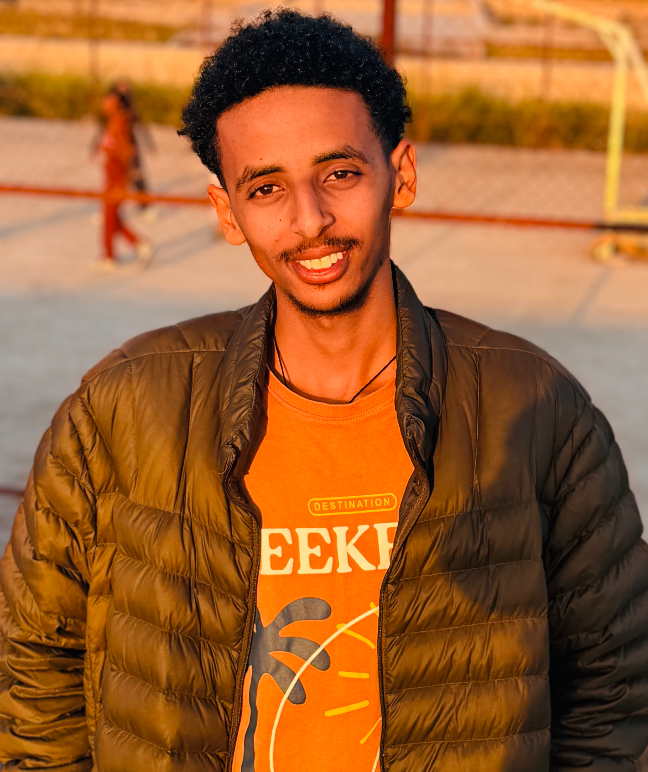
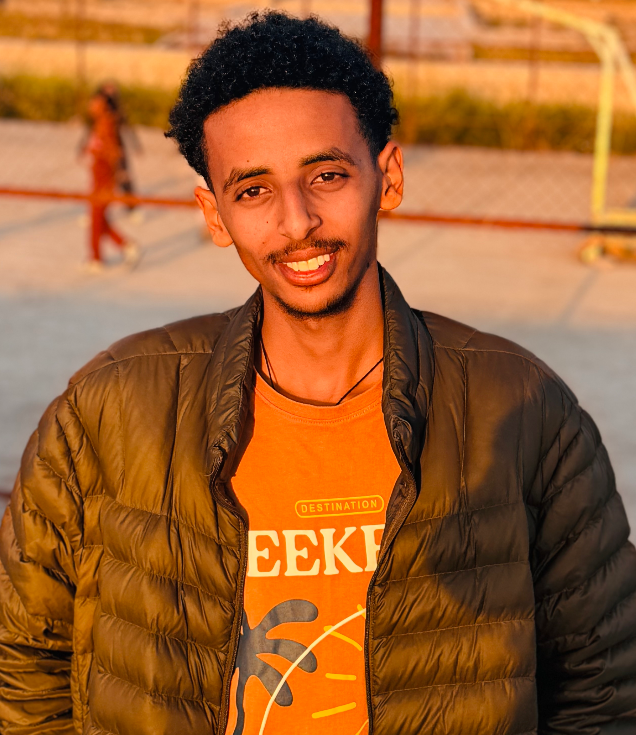
some importsat fix

diff --git a/src/index.css b/src/index.css
@@ -632,6 +632,72 @@ body {
   box-shadow: var(--shadow-lg);
 }
 
+.profile-card {
+  background: var(--bg-elevated);
+  border: 1px solid var(--border-glass);
+  border-radius: var(--radius-xl);
+  overflow: hidden;
+  box-shadow: var(--shadow-lg);
+}
+
+.profile-card-body {
+  padding: 2rem 1.75rem 2.25rem;
+  text-align: center;
+}
+
+.profile-photo-wrap {
+  width: 148px;
+  height: 148px;
+  margin: 0 auto 1.25rem;
+  border-radius: 50%;
+  padding: 4px;
+  background: linear-gradient(135deg, var(--accent), var(--accent-secondary));
+  box-shadow: 0 8px 28px rgba(59, 130, 246, 0.25);
+}
+
+.profile-photo {
+  width: 100%;
+  height: 100%;
+  border-radius: 50%;
+  object-fit: cover;
+  object-position: center top;
+  border: 3px solid var(--bg-elevated);
+  display: block;
+}
+
+.profile-card-name {
+  font-family: var(--font-heading);
+  font-size: 1.35rem;
+  font-weight: 800;
+  color: var(--text-main);
+  margin-bottom: 0.4rem;
+  line-height: 1.3;
+}
+
+.profile-card-role {
+  color: var(--text-muted);
+  font-size: 0.95rem;
+  margin-bottom: 1.1rem;
+}
+
+.profile-card-stack {
+  display: flex;
+  flex-wrap: wrap;
+  justify-content: center;
+  gap: 0.45rem;
+}
+
+.profile-card-stack span {
+  background: var(--accent-muted);
+  border: 1px solid var(--accent-border);
+  color: var(--accent-secondary);
+  padding: 0.25rem 0.65rem;
+  border-radius: 50px;
+  font-size: 0.78rem;
+  font-family: var(--font-mono);
+  font-weight: 500;
+}
+
 .code-window-bar {
   background: rgba(0, 0, 0, 0.25);
   padding: 0.7rem 1rem;
@@ -1094,8 +1160,8 @@ body {
     gap: 2.5rem;
   }
 
-  .code-window {
-    max-width: 480px;
+  .profile-card {
+    max-width: 360px;
     margin: 0 auto;
   }
 

diff --git a/src/components/Hero.jsx b/src/components/Hero.jsx
@@ -1,5 +1,8 @@
 import React, { useEffect, useRef, useState } from 'react';
-import { Github, Linkedin, ArrowRight } from './Icons';
+import { Github, Linkedin, ArrowRight, Download } from './Icons';
+
+const RESUME_URL = '/Fitsum_Mulugeta_CV.pdf';
+const RESUME_FILENAME = 'Fitsum_Mulugeta_CV.pdf';
 
 const Hero = () => {
   const canvasRef = useRef(null);
@@ -119,6 +122,9 @@ const Hero = () => {
             <a href="#projects" className="btn-primary">
               View Work <ArrowRight size={17} />
             </a>
+            <a href={RESUME_URL} download={RESUME_FILENAME} className="btn-secondary">
+              Get Resume <Download size={17} />
+            </a>
             <a href="#contact" className="btn-secondary">Contact Me</a>
           </div>
 
@@ -132,24 +138,31 @@ const Hero = () => {
           </div>
         </div>
 
-        <div className="code-window">
+        <div className="profile-card">
           <div className="code-window-bar">
             <span className="code-dot" style={{ background: '#ff5f56' }} />
             <span className="code-dot" style={{ background: '#ffbd2e' }} />
             <span className="code-dot" style={{ background: '#27c93f' }} />
             <span style={{ marginLeft: 'auto', color: 'var(--text-sub)', fontFamily: 'var(--font-mono)', fontSize: '0.75rem' }}>profile.jsx</span>
           </div>
-          <div className="code-window-body">
-            <div><span style={{ color: '#c084fc' }}>import</span> React <span style={{ color: '#c084fc' }}>from</span> <span style={{ color: '#86efac' }}>'react'</span>;</div>
-            <br />
-            <div><span style={{ color: '#c084fc' }}>const</span> <span style={{ color: '#7dd3fc' }}>Developer</span> = () =&gt; (</div>
-            <div style={{ paddingLeft: '1.2rem' }}>&lt;<span style={{ color: '#c084fc' }}>Profile</span></div>
-            <div style={{ paddingLeft: '2.4rem' }}><span style={{ color: '#fbbf24' }}>name</span>=<span style={{ color: '#86efac' }}>"Fitsum"</span></div>
-            <div style={{ paddingLeft: '2.4rem' }}><span style={{ color: '#fbbf24' }}>role</span>=<span style={{ color: '#86efac' }}>"Full-Stack Developer"</span></div>
-            <div style={{ paddingLeft: '2.4rem' }}><span style={{ color: '#fbbf24' }}>company</span>=<span style={{ color: '#86efac' }}>"Excelloite"</span></div>
-            <div style={{ paddingLeft: '2.4rem' }}><span style={{ color: '#fbbf24' }}>stack</span>=&#123;[<span style={{ color: '#86efac' }}>'Laravel'</span>, <span style={{ color: '#86efac' }}>'React'</span>, <span style={{ color: '#86efac' }}>'PHP'</span>]&#125;</div>
-            <div style={{ paddingLeft: '1.2rem' }}>/&gt;</div>
-            <div>);</div>
+          <div className="profile-card-body">
+            <div className="profile-photo-wrap">
+              <img
+                src="/assets/images/fitsum.png"
+                alt="Fitsum Mulugeta"
+                className="profile-photo"
+              />
+            </div>
+            <h3 className="profile-card-name">
+              I am <span className="gradient-text">Fitsum Mulugeta</span>
+            </h3>
+            <p className="profile-card-role">Full-Stack Developer @ Excelloite</p>
+            <div className="profile-card-stack">
+              <span>Laravel</span>
+              <span>React</span>
+              <span>PHP</span>
+              <span>MySQL</span>
+            </div>
           </div>
         </div>
       </div>

diff --git a/src/components/Contact.jsx b/src/components/Contact.jsx
@@ -1,15 +1,21 @@
 import React, { useState } from 'react';
 import { Mail, Briefcase, Code2, Send, Github, Linkedin } from './Icons';
 
+const CONTACT_EMAIL = '[email redacted]';
+
 const Contact = ({ onShowToast }) => {
   const [formData, setFormData] = useState({ name: '', email: '', message: '' });
 
   const handleSubmit = (e) => {
     e.preventDefault();
+
     const subject = encodeURIComponent(`Portfolio Inquiry from ${formData.name}`);
-    const body = encodeURIComponent(`Name: ${formData.name}\nEmail: ${formData.email}\n\n${formData.message}`);
-    window.location.href = `mailto:[email redacted]?subject=${subject}&body=${body}`;
-    onShowToast();
+    const body = encodeURIComponent(
+      `Name: ${formData.name}\nEmail: ${formData.email}\n\nMessage:\n${formData.message}`
+    );
+
+    window.location.href = `mailto:${CONTACT_EMAIL}?subject=${subject}&body=${body}`;
+    onShowToast('Your email app is opening — click Send to deliver the message.');
     setFormData({ name: '', email: '', message: '' });
   };
 
@@ -32,8 +38,8 @@ const Contact = ({ onShowToast }) => {
               <div className="contact-icon"><Mail size={20} /></div>
               <div>
                 <label style={{ display: 'block', fontSize: '0.8rem', color: 'var(--text-sub)' }}>Email</label>
-                <a href="mailto:[email redacted]" style={{ fontSize: '0.95rem', fontWeight: 600, color: '#fff', textDecoration: 'none' }}>
-                  [email redacted]
+                <a href={`mailto:${CONTACT_EMAIL}`} style={{ fontSize: '0.95rem', fontWeight: 600, color: '#fff', textDecoration: 'none' }}>
+                  {CONTACT_EMAIL}
                 </a>
               </div>
             </div>
@@ -77,6 +83,7 @@ const Contact = ({ onShowToast }) => {
                 <label>Your Name</label>
                 <input
                   type="text"
+                  name="name"
                   required
                   className="form-input"
                   value={formData.name}
@@ -89,6 +96,7 @@ const Contact = ({ onShowToast }) => {
                 <label>Your Email</label>
                 <input
                   type="email"
+                  name="email"
                   required
                   className="form-input"
                   value={formData.email}
@@ -100,6 +108,7 @@ const Contact = ({ onShowToast }) => {
               <div className="form-group">
                 <label>Message</label>
                 <textarea
+                  name="message"
                   required
                   rows={4}
                   className="form-input"

diff --git a/src/App.jsx b/src/App.jsx
@@ -14,11 +14,11 @@ import Toast from './components/Toast';
 function App() {
   const [selectedProject, setSelectedProject] = useState(null);
   const [showScreenshots, setShowScreenshots] = useState(false);
-  const [showToast, setShowToast] = useState(false);
+  const [toast, setToast] = useState({ show: false, message: '' });
 
-  const handleShowToast = () => {
-    setShowToast(true);
-    setTimeout(() => setShowToast(false), 4000);
+  const handleShowToast = (message) => {
+    setToast({ show: true, message });
+    setTimeout(() => setToast({ show: false, message: '' }), 5000);
   };
 
   const handleCloseModal = () => {
@@ -46,7 +46,7 @@ function App() {
         projectId={selectedProject?.id}
         onClose={() => setShowScreenshots(false)}
       />
-      <Toast show={showToast} />
+      <Toast show={toast.show} message={toast.message} />
     </div>
   );
 }

diff --git a/index.html b/index.html
@@ -4,7 +4,9 @@
     <meta charset="UTF-8" />
     <link rel="icon" type="image/svg+xml" href="/favicon.svg" />
     <meta name="viewport" content="width=device-width, initial-scale=1.0" />
-    <title>fitsum-react-portfolio</title>
+    <meta name="description" content="Fitsum Mulugeta — Full-Stack Developer. Laravel, React, PHP, MySQL. Enterprise systems, CRM, and ERP platforms." />
+    <meta name="theme-color" content="#0c0f14" />
+    <title>Fitsum Mulugeta | Full-Stack Developer</title>
   </head>
   <body>
     <div id="root"></div>

diff --git a/src/components/Toast.jsx b/src/components/Toast.jsx
@@ -1,13 +1,13 @@
 import React from 'react';
 import { CheckCircle2 } from './Icons';
 
-const Toast = ({ show }) => {
+const Toast = ({ show, message }) => {
   if (!show) return null;
 
   return (
     <div className="toast">
       <CheckCircle2 size={20} color="var(--accent-emerald)" />
-      <span>Opening your email client — message ready to send.</span>
+      <span>{message || 'Message sent successfully!'}</span>
     </div>
   );
 };

diff --git a/src/components/Icons.jsx b/src/components/Icons.jsx
@@ -84,3 +84,6 @@ export const ChevronLeft = ({ size = 24, color = "currentColor" }) => (
 export const ChevronRight = ({ size = 24, color = "currentColor" }) => (
   <svg width={size} height={size} viewBox="0 0 24 24" fill="none" stroke={color} strokeWidth="2" strokeLinecap="round" strokeLinejoin="round"><path d="m9 18 6-6-6-6"/></svg>
 );
+export const Download = ({ size = 24, color = "currentColor" }) => (
+  <svg width={size} height={size} viewBox="0 0 24 24" fill="none" stroke={color} strokeWidth="2" strokeLinecap="round" strokeLinejoin="round"><path d="M21 15v4a2 2 0 0 1-2 2H5a2 2 0 0 1-2-2v-4"/><polyline points="7 10 12 15 17 10"/><line x1="12" y1="15" x2="12" y2="3"/></svg>
+);